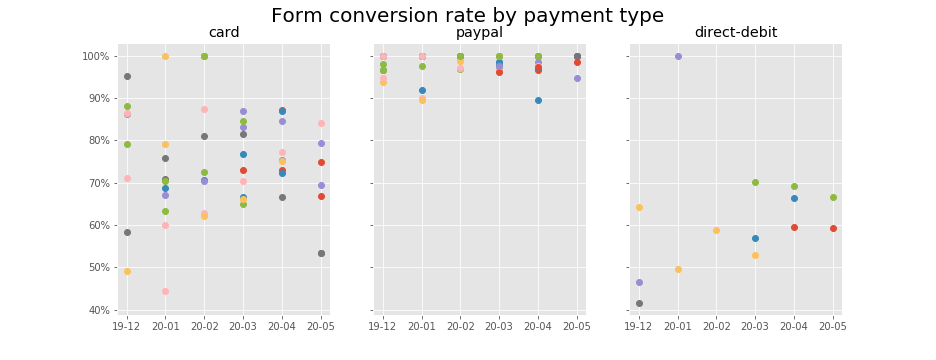
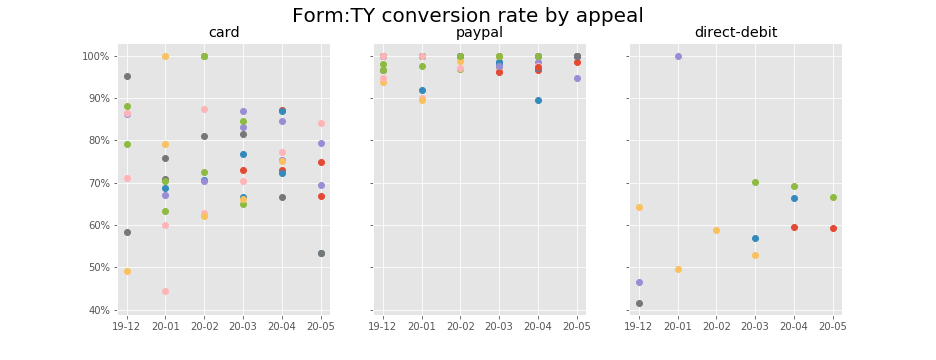
From landing and from form plots

Changed region(s): [[0.2788, 0.0, 0.7126, 0.0611]]

diff --git a/plot_funnel.py b/plot_funnel.py
@@ -31,20 +31,11 @@ df = df[df['appeal'].isin(bigappeal.index)]
 df[['formpage', 'payment']].drop_duplicates().sort_values(by='payment')
 
 payment_types = ['card', 'paypal', 'direct-debit']
-# for appeal in bigappeal.index:
-#for platform in ['card', 'paypal', 'direct-debit']:
-for appeal in ['Kindness Starts With You']:
-    print(df[df['appeal'] == appeal])
-    appeal_df = pd.DataFrame(index=['19-12', '20-01', '20-02', '20-03',
-                                    '20-04', '20-05'],
-                             columns=[''])
-
 months = sorted(df['month'].unique())
 
 cvr_by_platform = {k: None for k in payment_types}
 
 for platform in payment_types:
-#for platform in ['card']:
     by_month = pd.DataFrame(index=months)
     for appeal in bigappeal.index:
         _ = df[df['appeal'] == appeal]
@@ -52,23 +43,43 @@ for platform in payment_types:
         a.drop('appeal', axis=1, inplace=True)
         b = a.pivot_table(index='month', columns='formpage')
         for mth in b.index:
-            print(mth, platform)
             first_step = b['users'].max(axis=1).loc[mth]
             ty_step = b['users'].loc[mth, 'Thank you']
             formpct = ty_step/first_step
-            print('{}/{} = {:.0f}%'.format(ty_step, first_step, 100*formpct))
             by_month.loc[mth, appeal] = formpct
     cvr_by_platform[platform] = by_month
 
-fig, axs = plt.subplots(1, 3, sharey=True, figsize=(13, 5))
+figs, axs = plt.subplots(1, 3, sharey=True, figsize=(13, 5))
 for i, platform in enumerate(cvr_by_platform.keys()):
     platform_data = cvr_by_platform[platform]
     # Added these bizarre steps to get it to add xticklabels
     platform_data = platform_data.reset_index()
-    platform_data = platform_data.rename(columns={"index":"month"})
-    platform_data.plot(legend=None, ax=axs[i], marker='o', linestyle='None', xticks=platform_data.index)
+    platform_data = platform_data.rename(columns={"index": "month"})
+    platform_data.plot(legend=None, ax=axs[i], marker='o', linestyle='None',
+                       xticks=platform_data.index)
     axs[i].set_xticklabels(months)
     axs[i].set_title(platform)
     axs[i].yaxis.set_major_formatter(mtick.PercentFormatter(xmax=1))
-plt.suptitle('Form conversion rate by payment type', fontsize=20)
+plt.suptitle('Form:TY conversion rate by appeal', fontsize=20)
 plt.savefig('Outputs\\CVR_from-form_payment-type.png')
+
+landing_cvr = pd.DataFrame(index=months)
+for appeal in bigappeal.index:
+    steps = {'Appeal Landing': 0, 'Thank you': 0}
+    for step in steps:
+        data = df[(df['formpage'] == step) & (df['appeal'] == appeal)]
+        data = data[['month', 'users']]
+        data.set_index('month', inplace=True)
+        data.columns = [appeal]
+        if len(data.index) != len(data.index.unique()):
+            data = data.groupby('month').sum()
+        steps[step] = data
+    cvr = steps['Thank you'] / steps['Appeal Landing']
+    landing_cvr = landing_cvr.join(cvr)
+
+fig, ax = plt.subplots(1, 1, figsize=(6, 6))
+landing_cvr.plot(legend=None, marker='o', ax=ax, linestyle='None')
+plt.xticks(range(len(landing_cvr.index)), landing_cvr.index)
+ax.yaxis.set_major_formatter(mtick.PercentFormatter(xmax=1))
+ax.set_title('Landing:TY conversion rate by appeal', fontsize=20)
+plt.savefig('Outputs\\CVR_from-landing.png')
